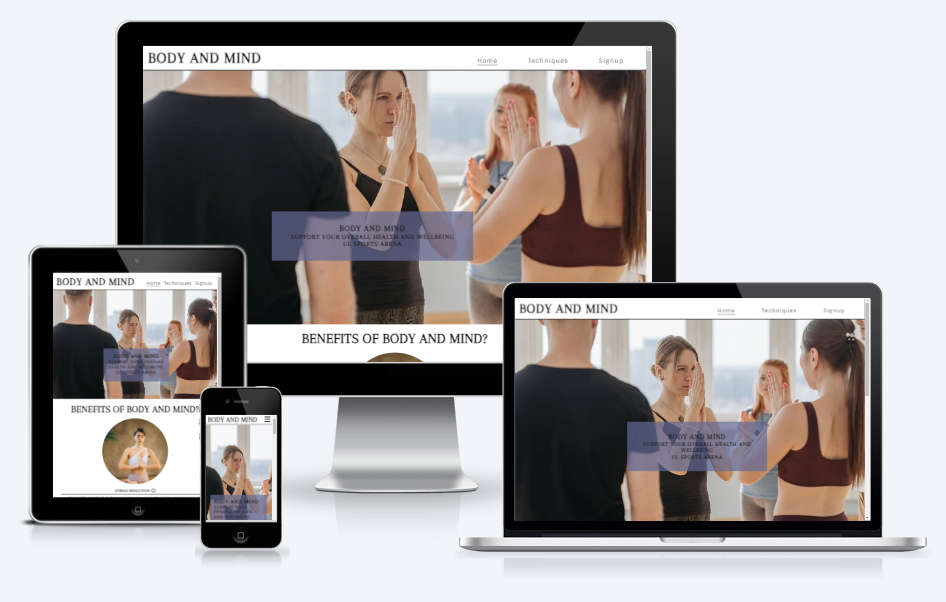
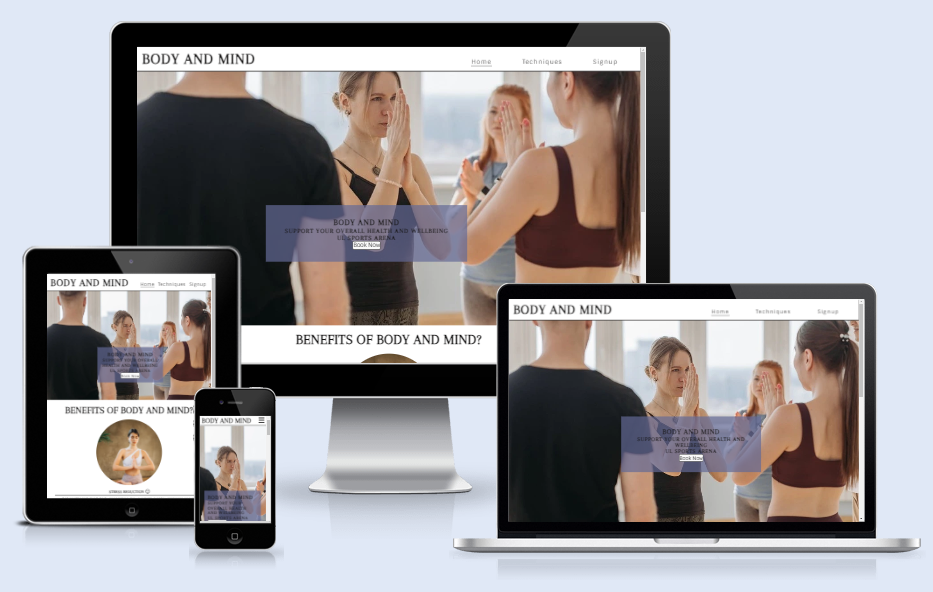
Doc: update am i responsive, landing page wireframe and hero images for cta button

Changed region(s): [[0.0, 0.0304, 0.9946, 0.973]]

diff --git a/README.md b/README.md
@@ -97,7 +97,7 @@ On mobile devices the header includes the logo and a navigation bars icon (burge
 
 ### Hero Image
 
-The hero image attracts the user and indicates that body and mind is a calm and relaxing environment. It also informs the user with text overlay of the tag line and the location.
+The hero image attracts the user and indicates that body and mind is a calm and relaxing environment. It also informs the user with text overlay of the tag line and the location. There is also a call to action button. When selected it will navigate to the signup form.
 
 ![hero-image](assets/documentation/features/hero-image.PNG)
 
